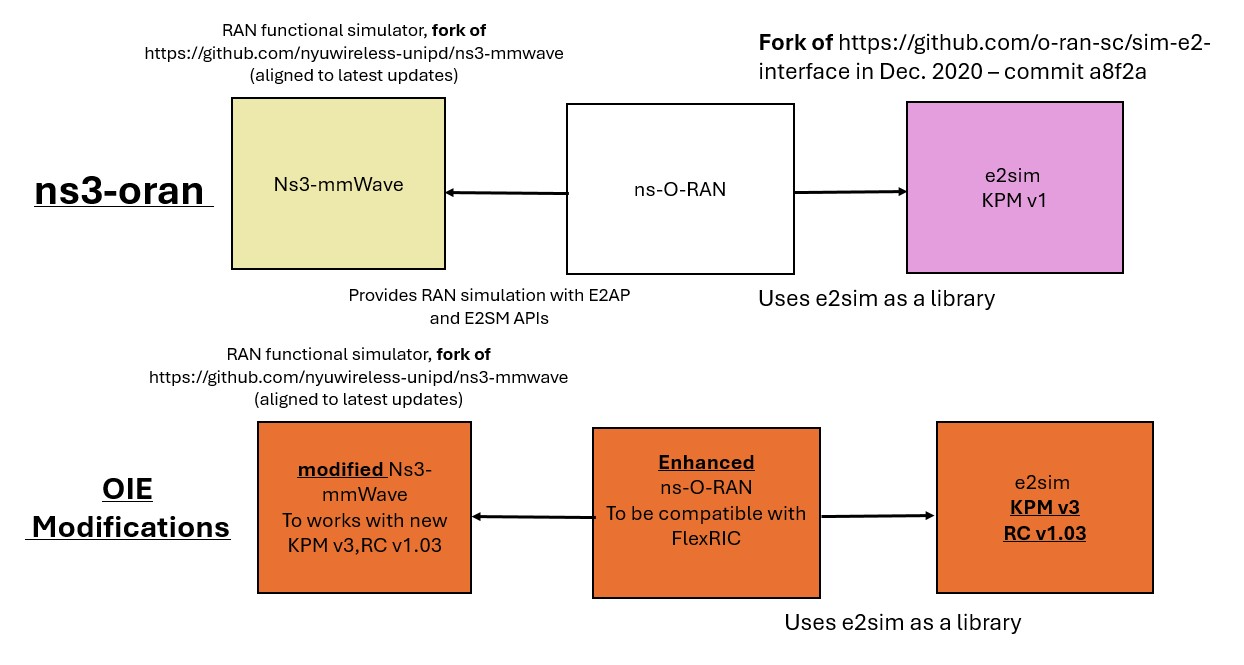
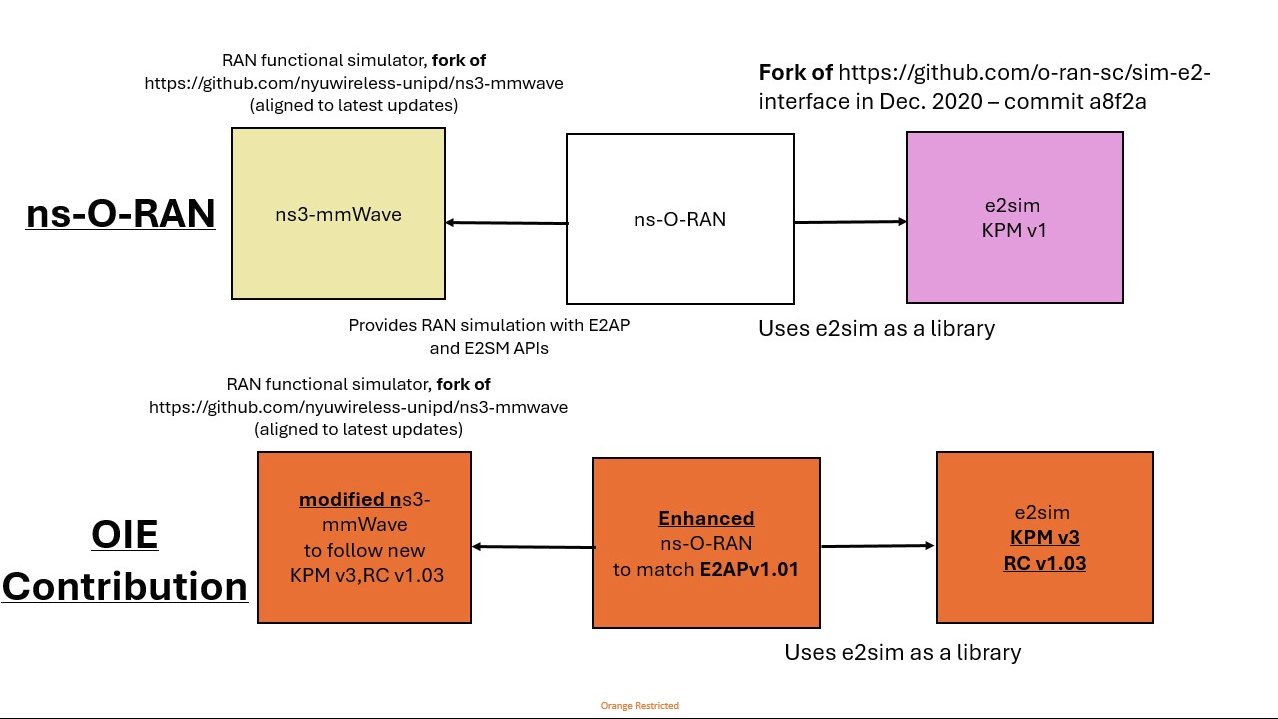
Update README
- Change ns-O-RAN link
- Update OIE contribution to E2APv1.01
- Update OIE contribution over ns-O-RAN project figure fig/2.png

diff --git a/README.md b/README.md
@@ -7,7 +7,10 @@
 
 ## 1. Project Introduction
 
-Given the importance of obtaining a capable and fully open-source platform for xApp operation testing,  especially for the complex use-cases. Orange Innovation Egypt(OIE) team Successfully integrated FlexRIC from EURECOM with [ns-O-RAN](https://openrangym.com/ran-frameworks/ns-o-ran) simulator that originally developed by the institute for the Wireless Internet of Things (WIoT) at Northeastren university, university of padova and Mavenir.  The team updated the ns-O-RAN simulator to be a fully compliant with E2AP v1.01, KPM v3 and RC v1.03. This platform will pave the way to test the use-cases that need a rich LTE/5G simulator to be verified. What's more, we propose Graphical User Interface for ns3 which allows to run and observe simulations in user-friendly way. 
+Given the importance of obtaining a capable and fully open-source platform for xApp operation testing,  especially for the complex use-cases. Orange Innovation Egypt(OIE) team Successfully integrated FlexRIC from EURECOM with [ns-O-RAN](https://openrangym.com/ran-frameworks/ns-o-ran) simulator that originally developed by the institute for the Wireless Internet of Things (WIoT) at Northeastren university, university of padova and Mavenir, the ns-O-RAN simulator has been further enhanced by the OIE team.
+
+The team upgraded the simulator to achieve full compliance with E2AP v1.01, KPM v3, and RC v1.03 standards. This advanced platform will facilitate the validation of complex use cases that require a sophisticated LTE/5G simulation environment. Furthermore, we propose the development of a Graphical User Interface (GUI) for ns-3, enabling users to execute and observe simulations in an intuitive and user-friendly manner.
+
 
 ![alt text](fig/ns-o-ran-flexric.png)
 
@@ -39,6 +42,7 @@ The ns-O-RAN is composed by three main components, as shown in the figure below:
         - Add RICEventTrigger 
  
  2. **E2 Subscription Response** 
+ 
         - Add RAN Function NotAdmitted IE to the message
 
  3. **RIC Indication** 
